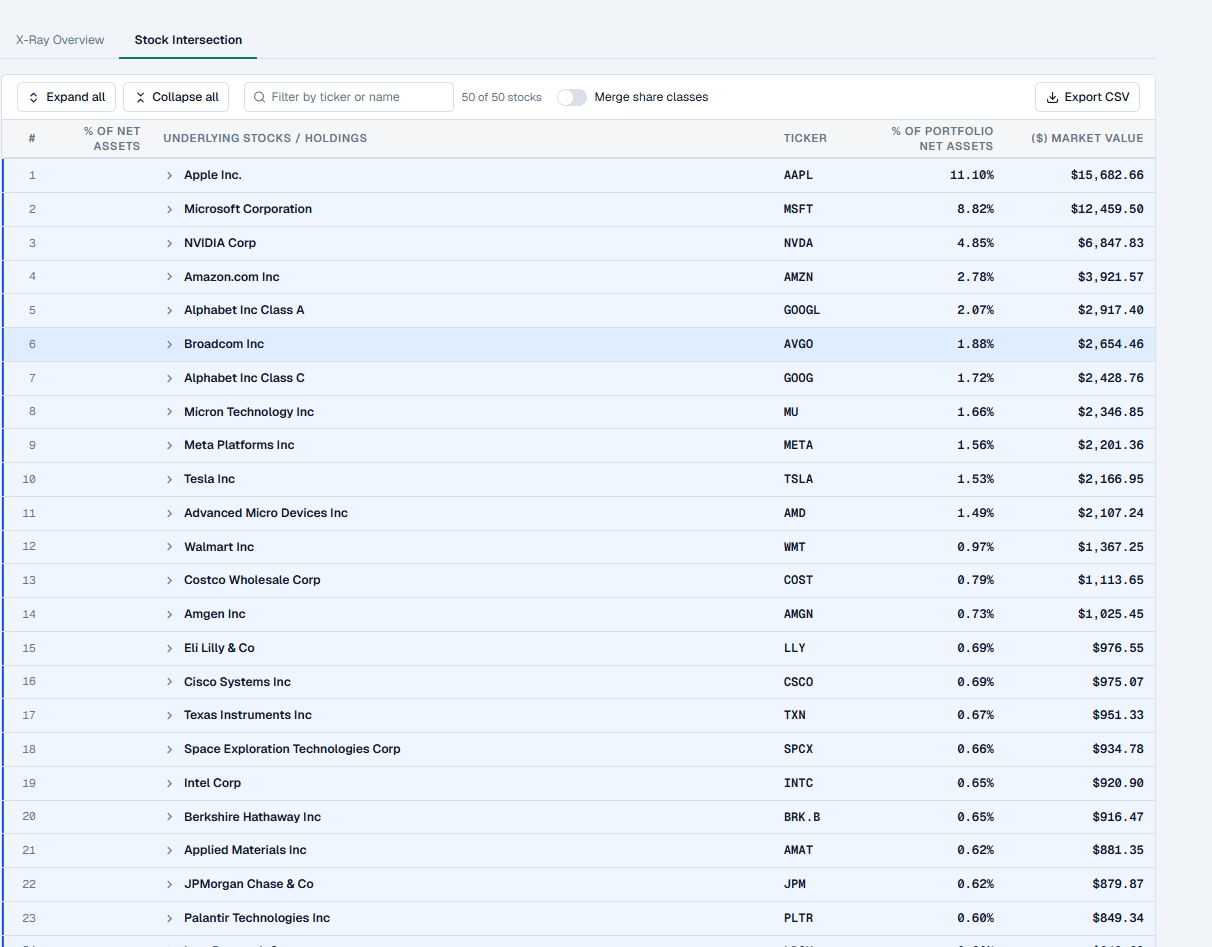
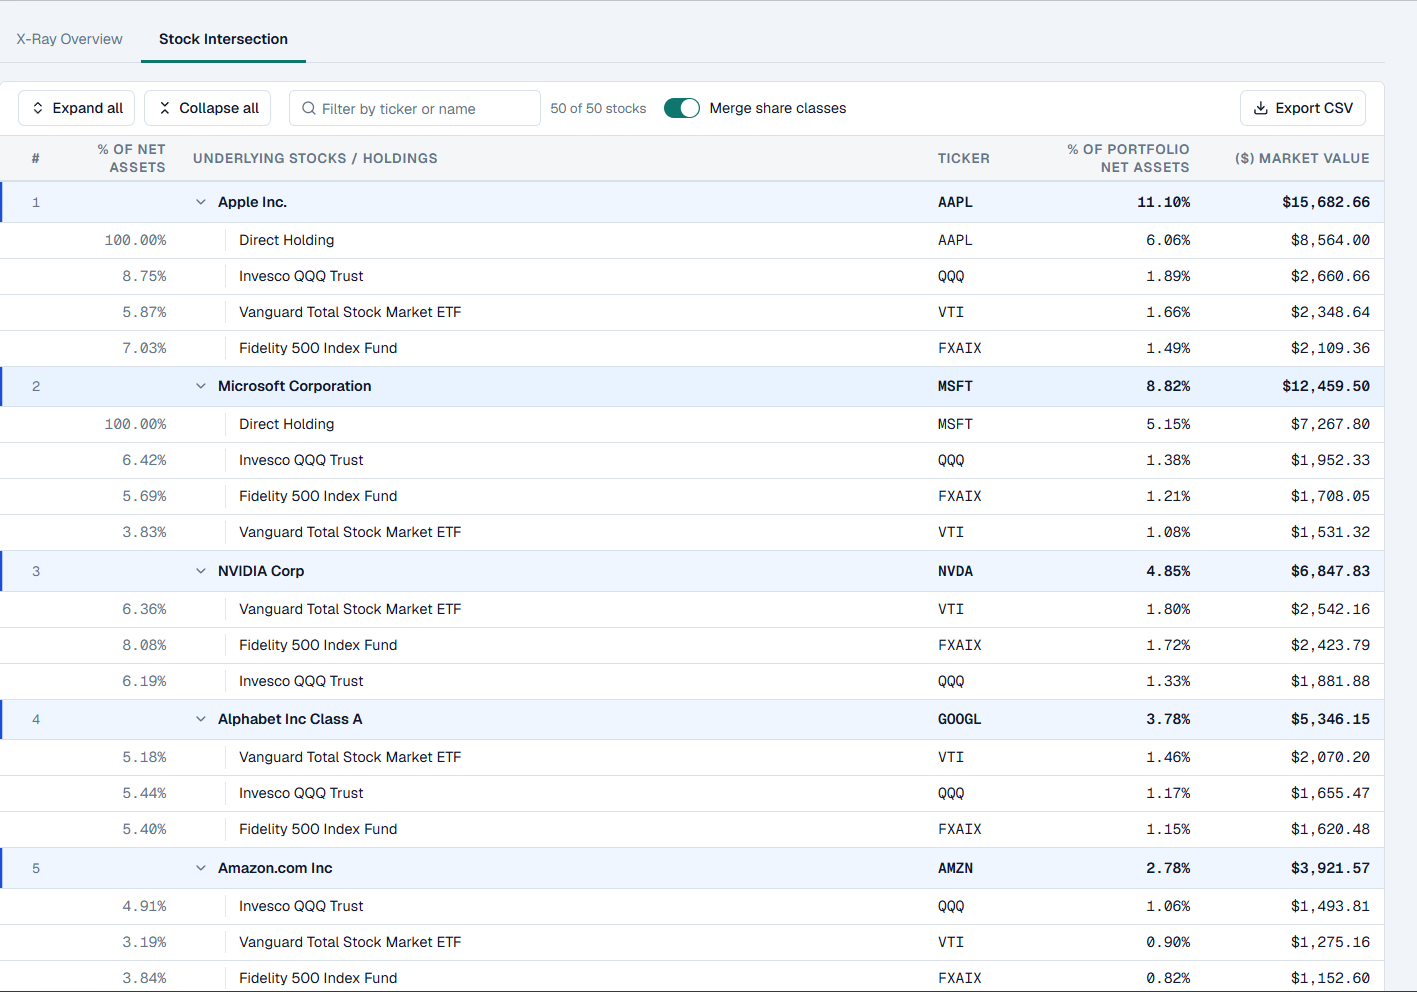
Replace Stock Intersection screenshot with expanded attribution view
Claude-Session: https://claude.ai/code/session_01JHwegW1Z6zRf4hkNCdw8aB

diff --git a/README.md b/README.md
@@ -10,7 +10,7 @@ Single user, single portfolio, no account. Data stays on your machine.
 
 ![X-Ray Overview of the sample portfolio](docs/screenshots/xray-overview.png)
 
-![Stock Intersection: Top 50 underlying stocks](docs/screenshots/stock-intersection.png)
+![Stock Intersection: top 50 underlying stocks, expanded to show each fund's contribution](docs/screenshots/stock-intersection.png)
 
 ![AI chat answering questions about the sample portfolio](docs/screenshots/ai-chat.png)
 
